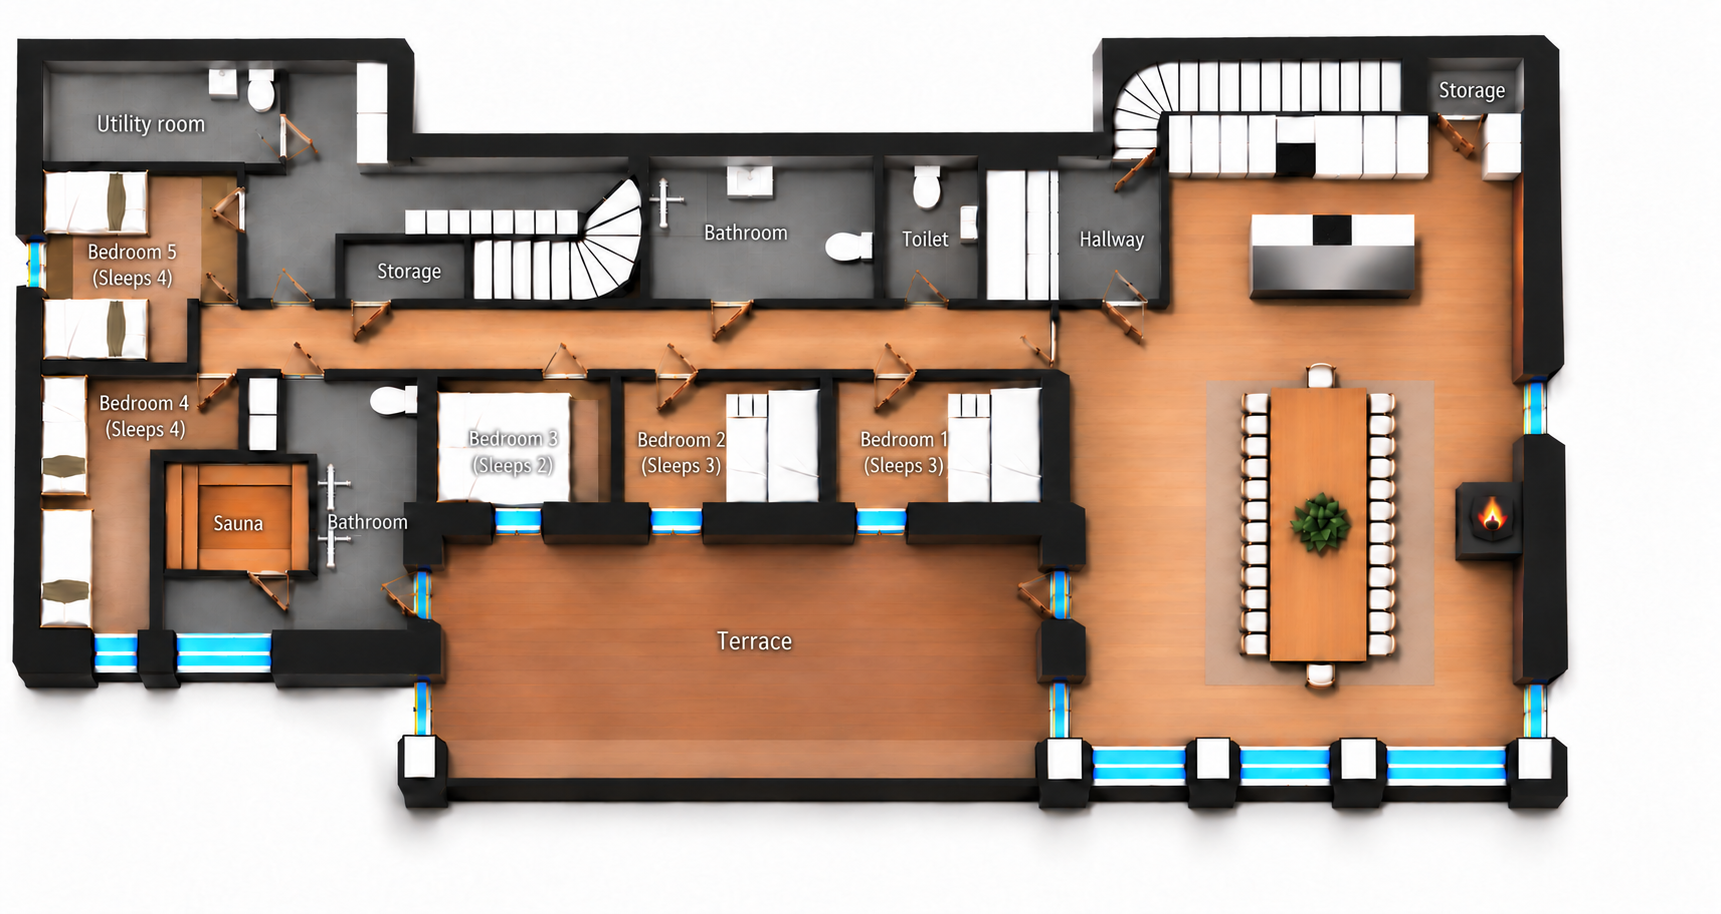
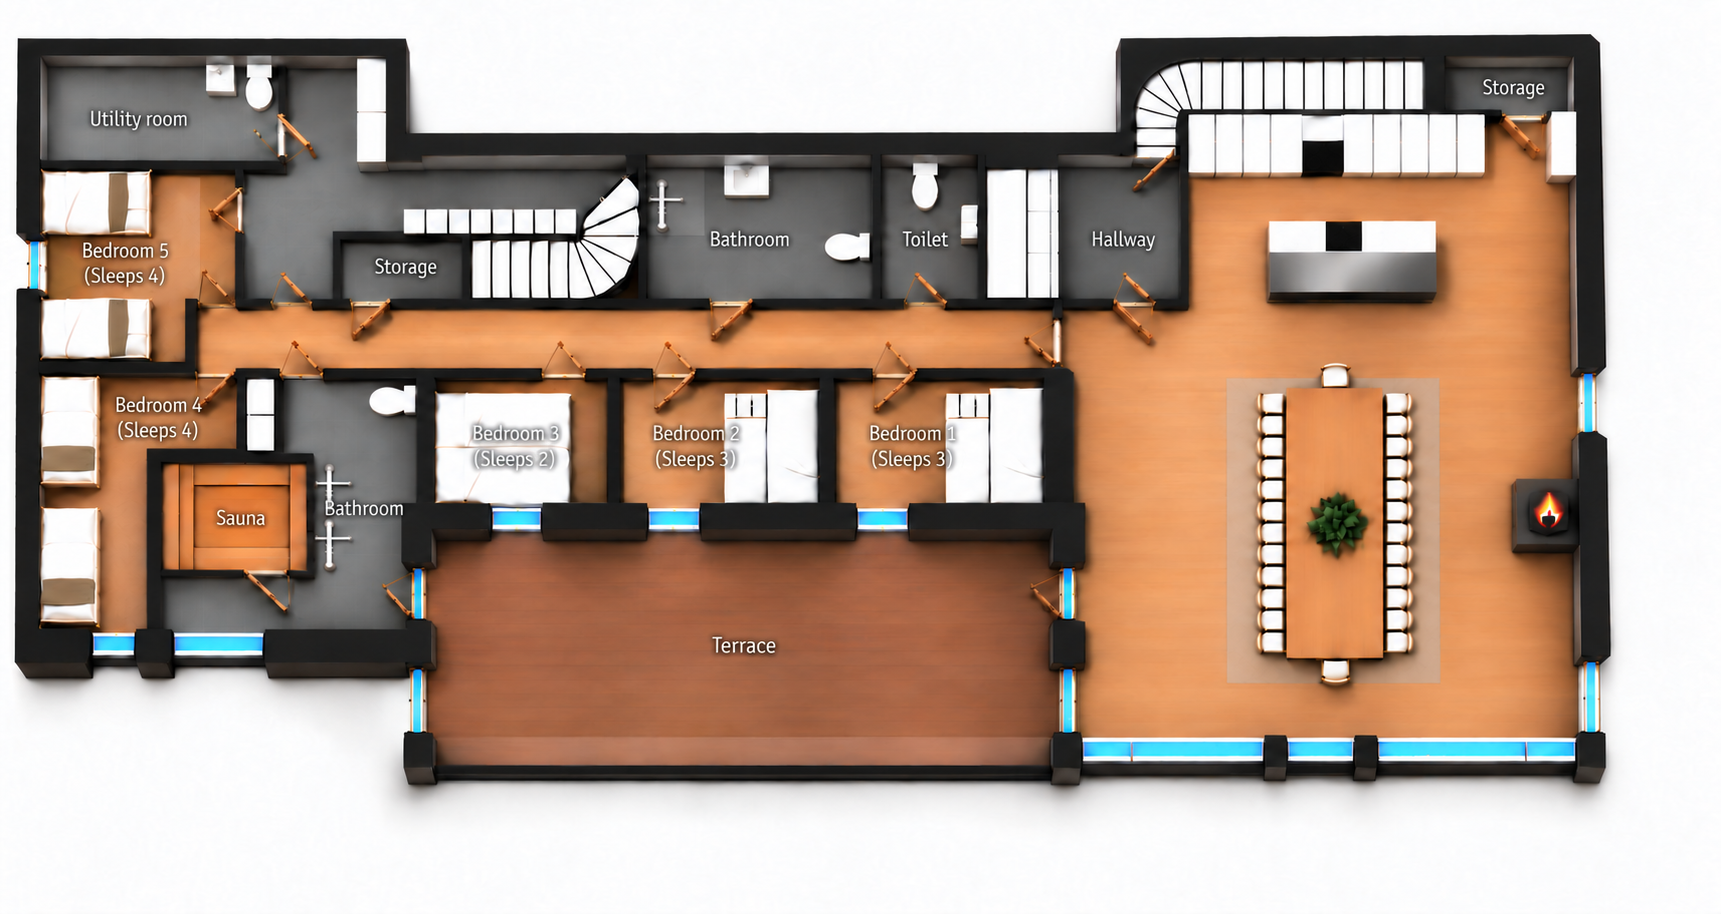
Align lower floor windows and wall weights with main floor

diff --git a/docs/floor-plans.md b/docs/floor-plans.md
@@ -1,5 +1,40 @@
 # Three floor plans
 
+## Main-floor facade alignment and equal bedroom4 bed widths, 30 October 2026
+
+The owner's close-up establishes THREE front window groups (wide–narrow–wide), superseding the earlier mistaken four-group interpretation. Lower-floor right living/dining module is slightly wider, with symmetric outer glazing spans, slimmer window-frame depth and narrower dark piers. Oversized square white post caps removed; overall wall weights brought closer to the main-floor reference. Upper bed in bedroom4 widened to match the lower bed. Rooms, sleeping counts and26tablechairs retained. English labels translated from the selected Norwegian drawing so both use the same corrected geometry.
+
+Final assets, built-in imagegen edit mode:
+- `public/images/floor-plan-lower.png`: `exec-155799d4-5c4e-49ae-a10f-f3ee5a9a13e1.png`.
+- `public/images/floor-plan-lower-en.png`: `exec-8af42fcc-55cf-4208-aadd-8c701241fdcf.png`.
+
+Exact final prompt sequence:
+
+### alignedLower-nbPrompt
+
+```text
+Use case: precise-object-edit. Image1 LOWER FLOOR is EDIT TARGET. Image2 MAIN FLOOR is exact architectural style/scale reference. Image3 CLOSE-UP of main-floor FRONT WINDOWS is the decisive reference for count,widths,symmetry and slender wall/frame thickness. Image4 marks the UPPER of TWO beds in BEDROOM4 that must match the other bed. Make these requested corrections only. A) RIGHT MODULE: make the kitchen/dining room slightly wider than Image1 by moving its RIGHT exterior wall about50–60px right in the1721pxcanvas, to outeredgearoundx1600; leftjunction fixed, rear/frontlevels fixed. Shift right-wallfireplace andsidewindowswithwall. Furniture must not stretch; retain kitchen,island,tableand EXACTLY26chairs(12eachlongside+1eachend). B) FRONT/BOTTOM WINDOWS OF RIGHT MODULE: match Image3 EXACT pattern, THREE window GROUPS with WIDE LEFT + NARROW CENTER + WIDE RIGHT; left/right widths EQUAL, central aboutHALFwidth of eitheroutergroup. Place these3groups symmetrically across entirefrontfacade. ExactlyTWO SLIM DARK PIERS between3glassgroups; slimcornerwallendseachside. Remove currenthuge white squarepostcaps andoverlythickblackpiers, replacewith slender dark wallpiers like Image3. Thin windowdepth/whiteblueframeband to about20–24px at1721pxcanvas, rather than current40px. Broad glazing spans with delicate frames, not thick blueblocks. C) WALL ALIGNMENT: lower-floor wall thickness should correspond to MAIN FLOOR reference Image2 normalized tosameoverallscale. Slim overlybulkyexteriorwallstoabout25–30px andinteriorpartitionstoabout18–24px atfull1721pxwidth, keepingwallcenterlines and all roomconnectivity fixed. Do not shrink roomsor moveleftbedroom/bathroomlayout. Match windowframe/wall visualweight acrossfloors; preserve all otherwindowlocations. D) BEDROOM4 UPPER VERTICAL BED alongfarleftwall: make this markedUPPERbed the EXACT SAME WIDTH AND LENGTH as the LOWERverticalbed in SAMEroom, matching frame,ivorybedding,pillow,taupeblanketdesign. Keepupperbed'shead anchored nearupperwall, extenditsrightedgeandfootendonlyto matchlowerbed dimensions. Lowerbedunchanged,2bedsremaining4sleepingplaces. PreserveALL otherfurniture,beds,roomnumbers,textlabelswording/font/size/positions,bathroomfixtures,stairs,terrace,materialpalette,canvasdimensionsandframing. No redmarks,newrooms,missingchairs,cropping,orresizeofwholeimage. Recentcrispdetailqualitymustremain. Preserve all Norwegian labels verbatim, especially Soverom1(3soveplasser),2(3),3(2),4(4),5(4),Teknisk rom,Bod,Bad,Sauna,Toalett,Gang,Terrasse.
+```
+
+### alignedBedNbFinalPrompt
+
+```text
+Use case: precise-object-edit. Image1 is the complete Norwegian lower-floor EDIT TARGET. Image2 identifies the UPPER bed in Soverom4. Make ONLY this one small furniture correction: COPY the exact dimensions and design of the LOWER vertical bed in Soverom4 to the UPPER vertical bed in SAME room. The lower bed is approximately50pixelswide and120pixelslong in this1721pxcanvas. Upper bed must also be50pixelswide and120pixelslong, with SAME rightedge, sameframewidth, samepillow, ivoryduvet,taupefoldedthrow, sameorientation. Keep upperbed's top/head atitscurrentupperwallnearY377, extendrightedge tolowerbed'srightedgearoundx91 and extendfootend toaroundY497. Lowerbed remains atY508–628 unchanged, leaving smallgapbetweenbeds. Do NOT make the upperbed short/narrow again. Keep ALL other pixels/content conceptually unchanged: exactroomgeometry,slimmerwalls,slimwindowframes,THREEsymmetricalfrontwindowgroupswide-narrow-wide,slightlywider rightmodule atouterx1600,26diningchairs,kitchen,island,fireplace,bedrooms1,2,3,5,labelsverbatim,fontandcanvas. No redraworrearrangementoutsideupperbed. No redmarks.
+```
+
+### equalBedNbPrompt
+
+```text
+Edit only the UPPER bed in Soverom 4, the leftmost vertical bed immediately below Soverom 5. It is visibly narrower and shorter than the LOWER bed in Soverom 4. Enlarge this upper bed by about 20% in width and 12% in length, extending to the RIGHT and DOWN while keeping its top-left fixed. It must end up the SAME width and length as that lower bed. Both bed right edges must align vertically. There is room to enlarge it. Do not keep the upper bed's old narrow dimensions. Do not change anything else in the full plan: preserve all text, all rooms, wall thickness, windows,26chairs, other furniture and the entire canvas.
+```
+
+### alignedLowerEnTranslationPrompt
+
+```text
+Use case: text-localization. The supplied Norwegian lower-floor plan is the EXACT EDIT TARGET. Change ONLY its Norwegian text labels to English; preserve ALL geometry and image content precisely. Exact replacements: 'Teknisk rom' -> 'Utility room'; BOTH 'Bod' -> 'Storage'; BOTH 'Bad' -> 'Bathroom'; 'Toalett' -> 'Toilet'; 'Gang' -> 'Hallway'; 'Sauna' stays 'Sauna'; 'Terrasse' -> 'Terrace'; 'Soverom 1' plus '(3 soveplasser)' -> 'Bedroom 1' plus '(Sleeps 3)'; Soverom2 -> Bedroom2(Sleeps3); Soverom3 -> Bedroom3(Sleeps2); Soverom4 -> Bedroom4(Sleeps4); Soverom5 -> Bedroom5(Sleeps4). Keep spaces between word andnumber. Keep samefontfamily,size,whitecolor,subtledarkshadow,positionsandtwolinesperbedroom. Nothing else changes: MUST preserve widenedrightmodule,currentthinwallsandwindowframes,THREEsymmetricalfrontwindowgroups(wide-narrow-wide)with2slimdarkpiers,EXACTLY26chairs,table,kitchen,island,fireplace,5bedrooms,matchedWIDTHofBOTHbedsinBedroom4andtheirrightedges,allstairs,doors,windows,fixtures,materialsandframing. No geometry from any other plan. No resize/crop/rearrangement. Only translate labels.
+```
+
+
 ## Narrower lower-floor module and full-screen return, 30 October 2026
 
 The owner marked a narrower right-hand kitchen/dining module. Its right exterior wall, fireplace and adjacent fittings move inward; the bedroom/bathroom/terrace portion remains intact. Front glazing uses the main-floor facade as its visual reference. The table retains26chairs. Final workspace files are `public/images/floor-plan-lower.png` (source `exec-0edca386-5a68-450b-8d76-99e19f101754.png`) and `public/images/floor-plan-lower-en.png` (source `exec-291d1f12-2f6e-4326-93a2-54b62769830b.png`). Built-in imagegen edit mode. Selected results visually inspected.
